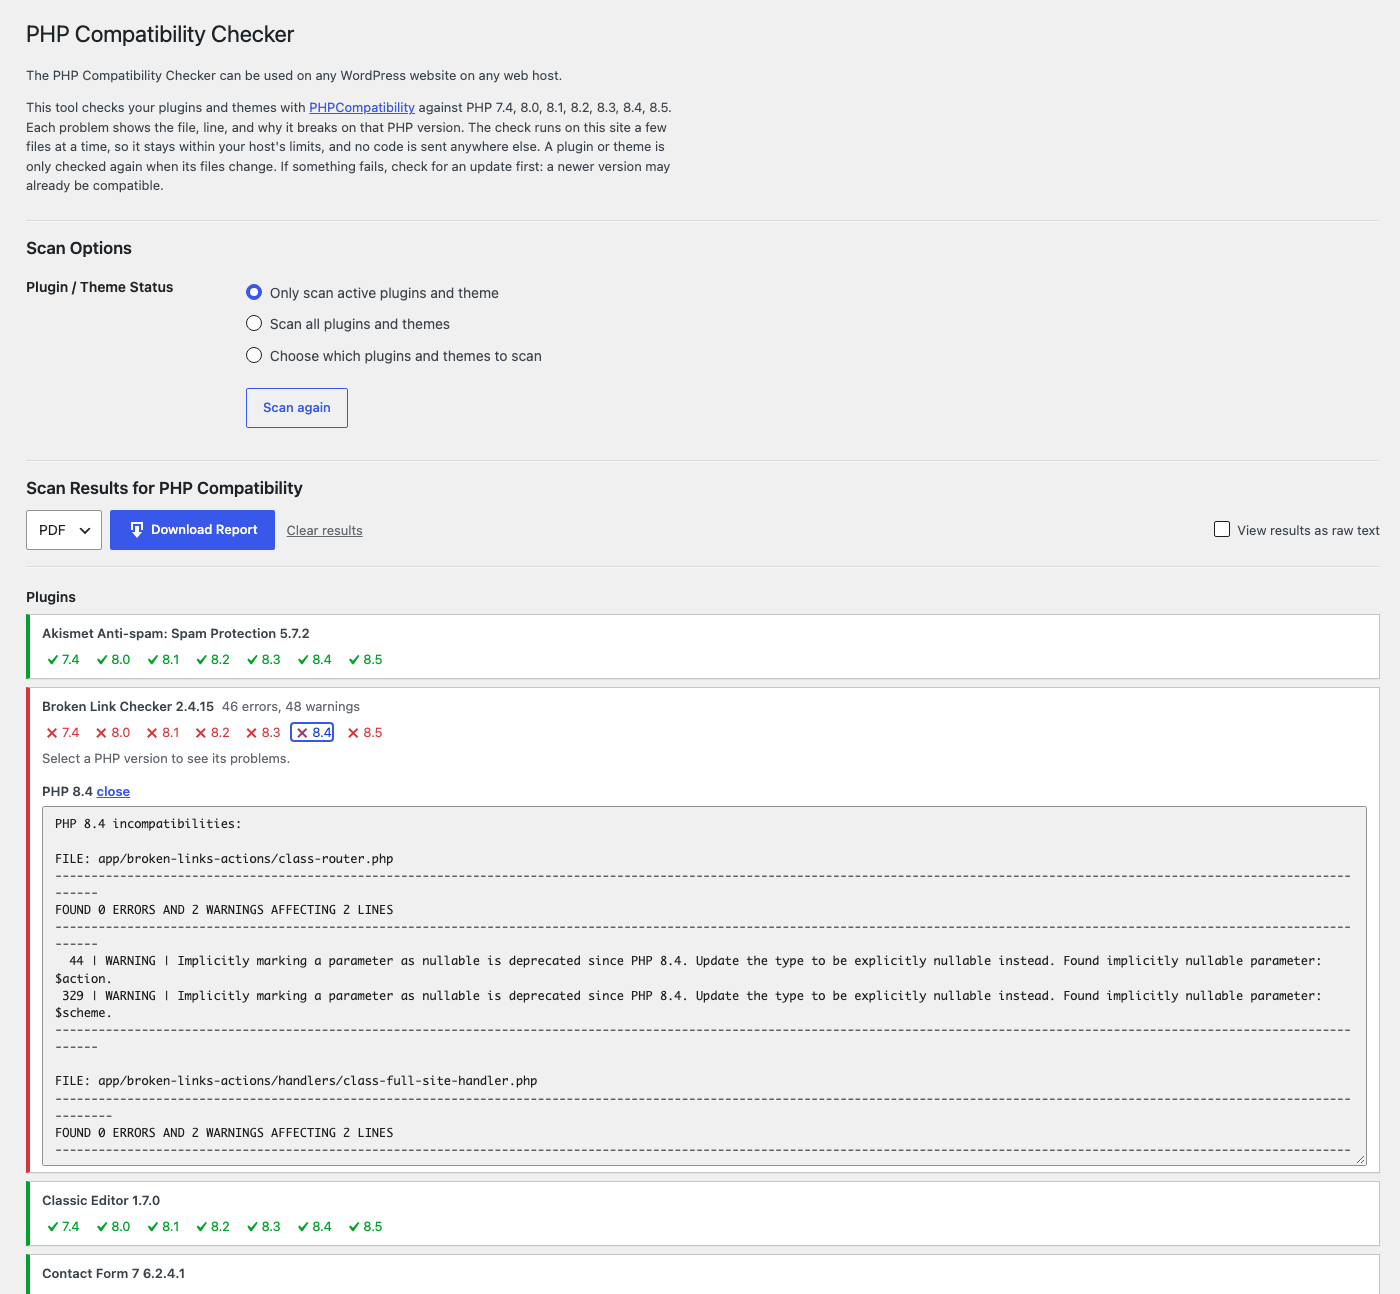
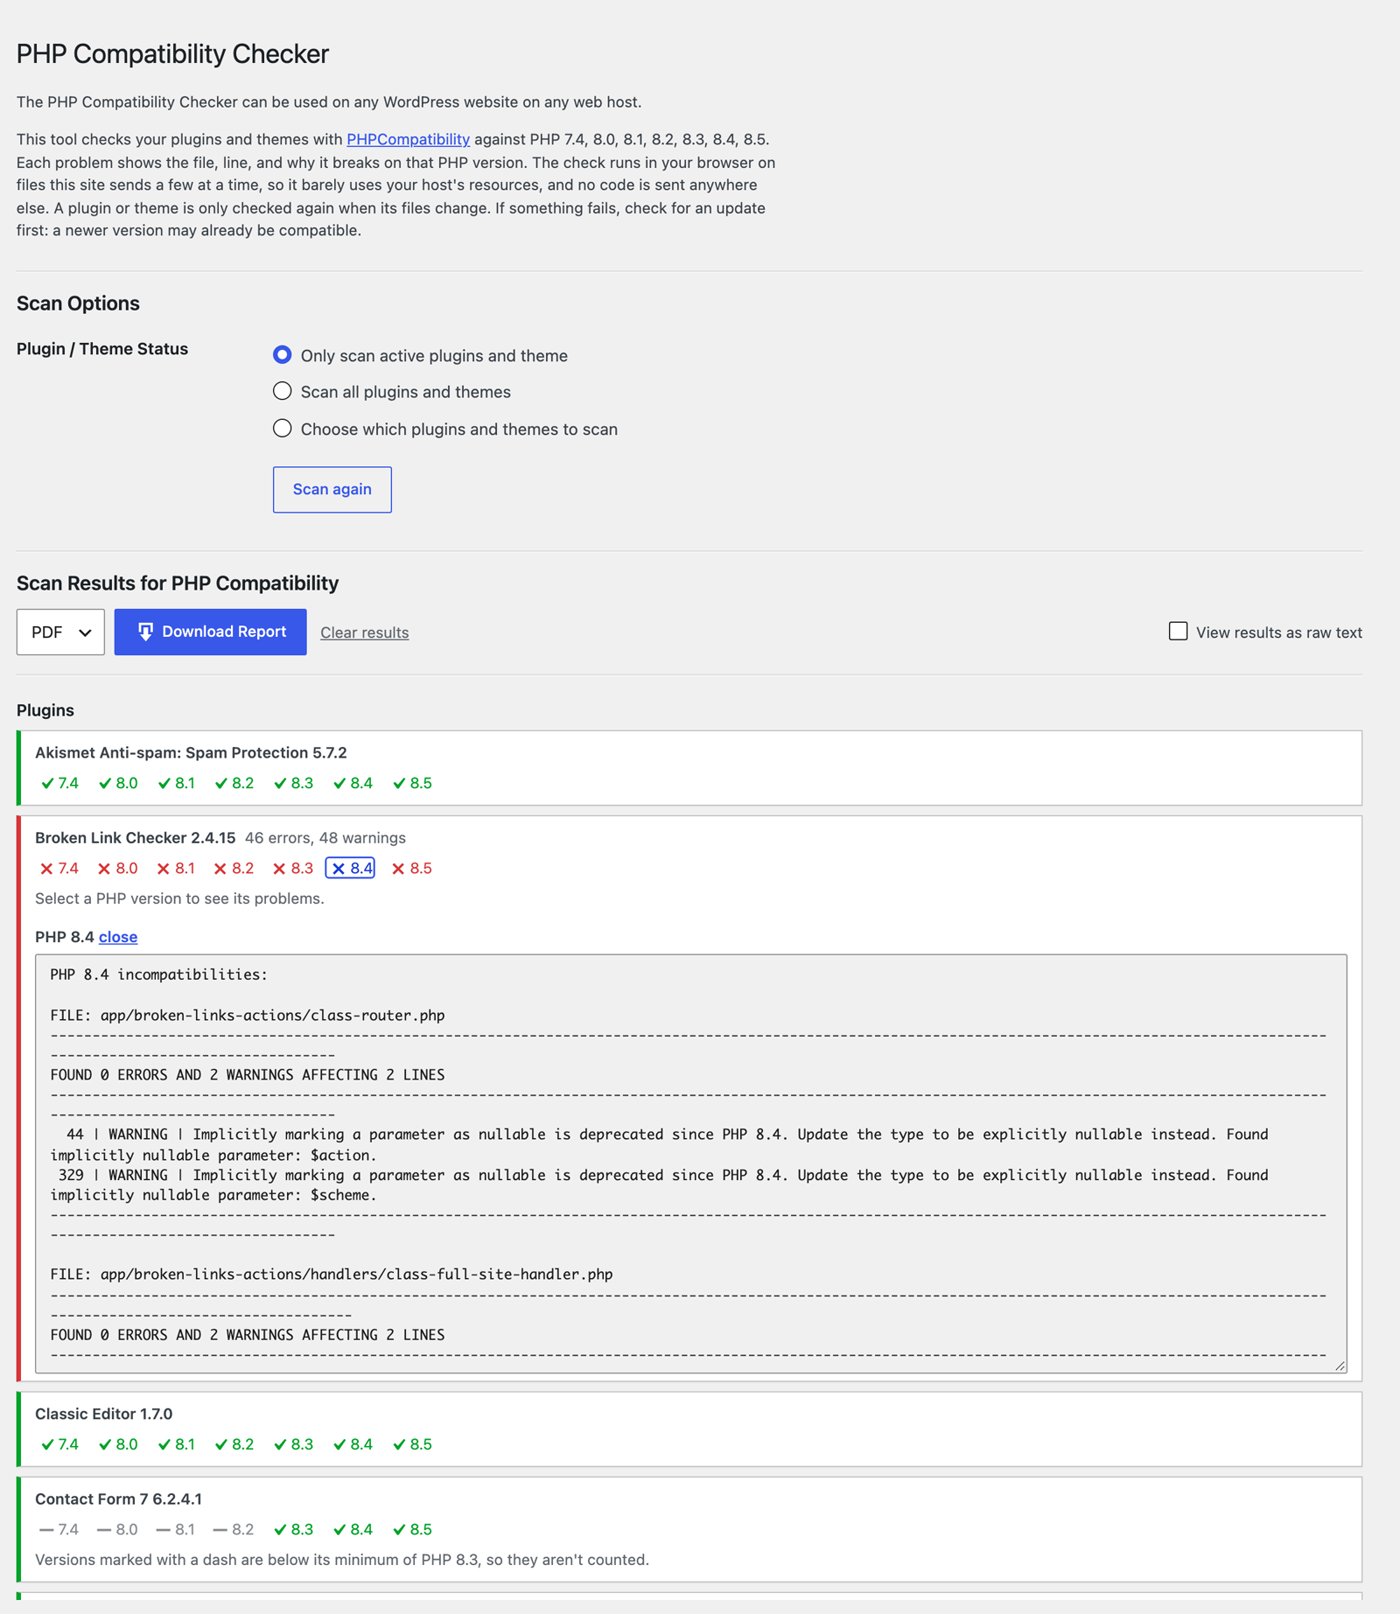
README: explain browser scanning with screenshots and diagrams
Rewrite How it works and Built for shared hosting for scanning in the
browser with PHP in WebAssembly. Add screenshots of a scan in progress
and of results, three Mermaid diagrams (where the work happens, one scan
step by step, and 1.5 vs 1.6 vs 2.0), and update the limitations, code
map, and filters. Refresh the WordPress.org scan page screenshot, whose
intro text still said the check runs on the site.

diff --git a/README.md b/README.md
@@ -4,48 +4,134 @@
 
 A WordPress plugin that checks whether the plugins and themes on a site work with newer versions of PHP. It's on WordPress.org as [PHP Compatibility Checker](https://wordpress.org/plugins/php-compatibility-checker/) and has around 200,000 active installs.
 
-It runs the PHP community's standard compatibility checker, [PHPCompatibility](https://github.com/PHPCompatibility/PHPCompatibility) on [PHP_CodeSniffer](https://github.com/PHPCSStandards/PHP_CodeSniffer), with the WordPress ruleset [PHPCompatibilityWP](https://github.com/PHPCompatibility/PHPCompatibilityWP), against PHP 7.4 through 8.5. It checks every plugin and theme: WordPress.org, premium, and custom.
+It runs the PHP community's standard compatibility checker, [PHPCompatibility](https://github.com/PHPCompatibility/PHPCompatibility) on [PHP_CodeSniffer](https://github.com/PHPCSStandards/PHP_CodeSniffer), with the WordPress ruleset [PHPCompatibilityWP](https://github.com/PHPCompatibility/PHPCompatibilityWP), against PHP 7.4 through 8.5. It checks every plugin and theme: WordPress.org, premium, and custom. The check runs in the admin's browser, in PHP compiled to WebAssembly, so it barely uses the host's resources and needs no outside service.
 
 This fork is actively maintained. It's where fixes are developed before being proposed upstream to [wpengine/phpcompat](https://github.com/wpengine/phpcompat).
 
 ## How it works
 
-The plugin adds **Tools → PHP Compatibility** to wp-admin. Choose **Only scan active plugins and theme**, **Scan all plugins and themes**, or **Choose which plugins and themes to scan**, then click **Scan site**:
+The plugin adds **Tools → PHP Compatibility** to wp-admin. Choose **Only scan active plugins and theme**, **Scan all plugins and themes**, or **Choose which plugins and themes to scan**, then click **Scan site**.
 
-1. The scan page sends one small request at a time to the plugin's REST API (`POST /wp-json/php-compat/v1/scan-batch`). The first request for each item only plans: it returns the stored result if the item's files haven't changed, otherwise the number of PHP files.
-2. Each following request scans the next batch of files on the site, in-process (no `exec()`), with the scanner that ships in the plugin (`build/scanner/`, plain PHP files). The browser sizes batches to take about 3 seconds, so no request comes near a host's time or memory limit.
-3. `runner.php` runs PHPCompatibilityWP once per PHP version (`testVersion` 7.4, 8.0, … 8.5), so each result means "this code breaks on PHP 8.x". To keep that fast, a first pass checks every file against the whole range and only the files it flags get the per-version passes.
-4. The browser merges the batches. Each item gets a status (Passes, Problems found, Not checked) and a chip per PHP version. Versions below the item's own "Requires PHP" are shown as not counted. Errors fail a version; warnings (deprecations) are listed but still run. Selecting a failing version shows the file, line, and message for each problem.
-5. The result is stored on the site with the item's version, the scanner's rule set, and a fingerprint of its PHP files (paths, sizes, modification times). Later scans reuse it until any of those change. WP-CLI and the Abilities API read the same results.
+<p align="center">
+  <img src=".github/images/scan-in-progress.png" alt="A scan in progress: finished plugins show a pass or fail chip for each PHP version, the current one shows files checked and a progress bar, and the rest are waiting." width="800">
+</p>
 
-Nothing is sent to another service: the code never leaves the site.
+The scan runs in the admin's browser. The plugin ships PHP 8.3 compiled to WebAssembly ([`@php-wasm/web-8-3`](https://www.npmjs.com/package/@php-wasm/web-8-3), from WordPress Playground) and runs its own copy of PHP_CodeSniffer and PHPCompatibilityWP inside a Web Worker. The site only lists and reads files. The CPU work of checking them happens on the admin's computer, and the code never leaves the site and that browser.
+
+```mermaid
+flowchart LR
+    files[("Plugin and<br/>theme files")]
+    rest["REST API<br/>reads the next few files"]
+    worker["PHP 8.3 in WebAssembly<br/>phpcs + PHPCompatibilityWP<br/>(Web Worker)"]
+    results[("Stored results")]
+    uses["Site Health,<br/>WP-CLI, Abilities"]
+    files --> rest
+    rest -- "POST /scan-batch" --> worker
+    worker -- "POST /results" --> results
+    results --> uses
+    classDef site fill:#e7f0fa,stroke:#2271b1,color:#1d2327
+    classDef browser fill:#fcf0e3,stroke:#b26200,color:#1d2327
+    class files,rest,results,uses site
+    class worker browser
+```
+
+<sub>Blue runs on the WordPress site. Orange runs in the admin's browser.</sub>
+
+Step by step:
+
+1. **Start PHP.** On the first scan the page downloads the scanner's files (`GET /scanner-bundle`), checks them against the SHA-256 in the plugin's build manifest, and keeps them in the browser's Cache Storage. The PHP runtime (`build/php-wasm/`, about 18 MB) loads from the plugin's own folder and the browser caches it. Both download again only when the plugin is updated. Browsers with JSPI (Chrome, Edge) use that build; Firefox and Safari use the Asyncify build.
+2. **Plan.** The first request for each item (`POST /scan-batch`) returns the stored result if the item's files haven't changed, otherwise how many PHP files it has.
+3. **Batches.** Each following request returns the next few PHP files. The worker writes them into PHP's in-memory file system and runs `runner.php`, the same file WP-CLI runs on the server. PHP inside the worker has no network access and no WordPress; it reads those files and prints JSON.
+4. **Per-version results.** `runner.php` runs PHPCompatibilityWP once per PHP version (`testVersion` 7.4, 8.0, … 8.5), so each result means "this code breaks on PHP 8.x". To keep that fast, a first pass checks every file against the whole range and only the files it flags get the per-version passes.
+5. **Merge and store.** The browser merges the batches. Each item gets a status (Passes, Problems found, Not checked) and a chip per PHP version. Versions below the item's own "Requires PHP" are shown as not counted. Errors fail a version; warnings (deprecations) are listed but still pass. Selecting a failing version shows the file, line, and message for each problem. The result is saved (`POST /results`) with the item's version, the scanner's rule set, and a fingerprint of its PHP files (paths, sizes, modification times). Later scans reuse it until any of those change.
+
+```mermaid
+sequenceDiagram
+    autonumber
+    participant P as Scan page
+    participant W as Web Worker (PHP in WebAssembly)
+    participant S as WordPress site
+    P->>S: GET /scanner-bundle (first scan only, then cached)
+    P->>W: start PHP, load scanner
+    W->>W: check scanner against build SHA-256
+    loop each plugin or theme
+        P->>S: POST /scan-batch (plan)
+        alt files unchanged
+            S-->>P: stored result
+        else changed or never scanned
+            loop until every file is checked
+                P->>S: POST /scan-batch (cursor)
+                S-->>P: next few files
+                P->>W: scan these files
+                W-->>P: problems per PHP version
+            end
+            P->>S: POST /results
+        end
+    end
+    P->>S: DELETE /scan-lock
+```
+
+<p align="center">
+  <img src=".github/images/scan-results.png" alt="Scan results: Broken Link Checker fails every PHP version and its PHP 8.4 problems are open, listing file, line and message; other plugins pass, and Contact Form 7 shows dashes for versions below its minimum." width="800">
+</p>
 
 The results also feed:
 
 - **Site Health** (Tools → Site Health): a test for the active plugins and theme, and a PHP Compatibility section on the Info tab. It reads stored results and never scans.
 - **"Requires PHP" checks**: an item whose code only passes from a newer PHP than its header says, or whose `vendor/composer/platform_check.php` requires one, gets a note. Both sources keep themselves current.
+- **WP-CLI and the Abilities API**, which read the same stored results.
+
+| PDF report | Site Health |
+| --- | --- |
+| ![The PDF report: a summary with next steps, then every plugin and theme at a glance.](.wordpress-org/screenshot-2.png) | ![Site Health: active plugins and themes with problems on newer PHP.](.wordpress-org/screenshot-3.png) |
 
 ### Built for shared hosting
 
+The plugin moved to an outside service (WP Engine's Tide, now retired) because 1.5 scanned on the site from WP-Cron with no time limit, which caused noisy-neighbor problems. 2.0 doesn't need a service: the expensive part runs in the browser, and what's left on the site is reading files.
+
+```mermaid
+flowchart TB
+    subgraph v15["1.5: on the site"]
+        a1["WP-Cron"] --> a2["phpcs on the server<br/>no time limit"]
+    end
+    subgraph v16["1.6: outside service"]
+        b1["Site"] --> b2["Tide API<br/>WordPress.org code only,<br/>stopped at PHP 8.0"]
+    end
+    subgraph v20["2.0: in the browser"]
+        c1["Site reads files"] --> c2["Admin's browser runs phpcs<br/>in WebAssembly"]
+    end
+    v15 ~~~ v16 ~~~ v20
+    classDef site fill:#e7f0fa,stroke:#2271b1,color:#1d2327
+    classDef browser fill:#fcf0e3,stroke:#b26200,color:#1d2327
+    classDef outside fill:#f0f0f1,stroke:#8c8f94,color:#1d2327
+    class a1,a2,b1,c1 site
+    class b2 outside
+    class c2 browser
+```
+
+Locally, Broken Link Checker (569 PHP files) takes about 22 seconds. The site spends 2.2 seconds of that reading files, over 16 requests, the longest 0.17 seconds. Scanning the same plugin on the server took about 10 seconds with requests up to 3.7 seconds, so a scan takes longer but the site does a fraction of the work. Results are identical to a server-side scan in Chromium, Firefox, and WebKit.
+
 Scanning is a resumable batch job, using the usual patterns for that:
 
+- **Only while the page is open.** No cron and no background jobs.
 - **One scan per site, one request in flight.** A short lock (renewed by each request, gone two minutes after the last) keeps a second admin or tab from starting another scan, and each scan sends one request at a time, so it holds at most one PHP worker.
-- **A time budget on the server**: each request checks files one by one and stops after about 3 seconds, whatever the browser asked for, then returns the rest for the next request.
-- **The ruleset is loaded once per PHP process** and reused for every file and PHP version, instead of once per phpcs run (about a quarter of a second each).
-- **Adaptive batch size**: aims for about 2 seconds per request, grows (at most 1.5×) while requests are fast, halves after a slow or failed one. The server also caps every batch (100 files, 1 MB). Request time includes waiting on disk, so hosts with limited I/O get smaller batches.
+- **Server-side caps**: every batch is limited to 100 files and 1 MB, whatever the browser asks for.
+- **Adaptive batch size**: each batch (request plus checking) aims for about 2 seconds, grows (at most 1.5×) while batches are fast, and halves after a slow or failed one.
 - **Pacing**: after a slow request, it waits a quarter of that time (at most 3 seconds) before the next, so a busy host has room for visitors.
-- **Progress you can see**: each item shows files checked, a progress bar, an estimate of the time left, and "still working…" if one request takes longer than 10 seconds.
+- **Progress you can see**: each item shows files checked, a progress bar, an estimate of the time left, and "still working…" if a batch takes longer than 10 seconds.
 - **Retries with exponential backoff and jitter** on 429, 503, timeouts, and dropped connections, honoring `Retry-After`.
-- **Poison-file isolation**: a batch that crashes PHP (memory, time) is split until the file causing it is found; that file is skipped and listed. If more than a few files crash, the item fails instead of passing.
+- **Poison-file isolation**: a batch that crashes PHP in the worker is split until the file causing it is found; that file is skipped and listed, and the worker restarts PHP. If more than a few files crash, the item fails instead of passing.
 - **Optimistic concurrency**: if an item's files change mid-scan, the server answers 409 and the item starts again.
-- **Integrity check**: the bundled scanner is checked against its build's SHA-256 (once a day per build); a missing or incomplete copy says to reinstall instead of failing on every file.
-- **Clean JSON**: messages are collected without phpcs's JSON report, so files that aren't UTF-8 can't break a response, and stray PHP notices before the JSON are skipped.
+- **Integrity check**: the worker refuses scanner files that don't match the build's SHA-256, and the site checks its own copy once a day per build, so a missing or incomplete install says to reinstall instead of failing on every file.
+- **An off switch**: `define( 'WPEPHPCOMPAT_DISABLE_SCANNING', true );` in `wp-config.php`, or the `wpephpcompat_scanning_enabled` filter, turns scanning off. Stored results, Site Health, and WP-CLI keep working.
 
 ### Limitations
 
 - **Static analysis.** Code isn't executed. Code paths that exist for backwards compatibility can show up as failures, and runtime problems won't show up at all.
 - **PHPCompatibility 10 is in alpha.** It's the release line with PHP 8.1–8.5 checks; coverage of some PHP 8.3–8.5 changes is still being added upstream. The exact versions are in every report and in `build/scanner.json`.
-- **The site does the work.** A first scan of a large site takes a few minutes of one PHP worker; later scans only check what changed. WP-CLI (`wp php-compat scan`) runs the same scanner without request limits.
+- **The browser does the work.** WebAssembly PHP is about 3–4× slower per file than native PHP, so a first scan of a large site takes a few minutes and the tab has to stay open. Later scans only check what changed. WP-CLI (`wp php-compat scan`) runs the same scanner natively on the server.
+- **A bigger plugin.** The bundled PHP runtime makes the zip about 15 MB.
+- **Multisite.** Only super admins can scan from the page, because scanning reads plugin code.
 
 ## WP-CLI
 
@@ -58,7 +144,7 @@ wp php-compat report wp-optimize --php=8.4
 wp php-compat php-status
 ```
 
-WP-CLI has no browser and no time limit, so `scan` runs the same `runner.php` in-process on the installed files (no `exec()` needed) and stores the results. `scan` exits with status 1 when any item has problems, so it can gate deploys or run across many sites.
+WP-CLI has no browser and no time limit, so `scan` runs the same `runner.php` natively and in-process on the installed files (no `exec()` needed) and stores the results. `scan` exits with status 1 when any item has problems, so it can gate deploys or run across many sites.
 
 ## Abilities API (AI agents)
 
@@ -92,21 +178,22 @@ The scan page shows a notice for each of these. The same data is in `wp php-comp
 | `plugin/wpengine-phpcompat.php` | Bootstrap: constants, autoloader, activation, upgrade, and migration hooks |
 | `plugin/lib/class-php-compatibility-checker.php` | Admin page, script loading, and the list of plugins and themes to scan, with filters |
 | `plugin/lib/class-scanner.php` | Server-side scanner: turns reports into statuses, scans installed files for WP-CLI (used by WP-CLI and abilities) |
-| `plugin/lib/class-scanner-bundle.php` | The bundled scanner: rule set, PHP versions, browser settings, and in-process runs for WP-CLI |
+| `plugin/lib/class-scanner-bundle.php` | The bundled scanner: rule set, PHP versions, the off switch, browser settings (worker and runtime URLs), the files for `GET /scanner-bundle`, and in-process runs for WP-CLI |
 | `plugin/lib/class-results.php` | Stored results, one non-autoloaded option per plugin or theme |
 | `plugin/lib/class-site-health.php` | Site Health test and Info section |
-| `plugin/lib/class-rest-controller.php` | `php-compat/v1` REST routes: local files in batches, and saving results |
+| `plugin/lib/class-rest-controller.php` | `php-compat/v1` REST routes: `/scan-batch` (files in batches), `/scanner-bundle`, `/results`, and `/scan-lock` |
 | `plugin/lib/class-cli-command.php` | `wp php-compat` commands |
 | `plugin/lib/class-abilities.php` | Abilities API registration |
 | `plugin/lib/class-php-releases.php` | Server PHP release status from php.net and critical advisories (latest patch release, branch end of life, PHP2Shell) |
 | `src/js/scan.js` | Page wiring: buttons and toggles |
 | `src/js/include/queue-manager.js` | Scan queue: one item at a time |
-| `src/js/include/scanner.js` | Batched scanning over REST: sizing, retries, skipping, merging |
+| `src/js/include/scanner.js` | Batched scanning: requests, sizing, retries, skipping, merging |
+| `src/js/include/wasm-engine.js` | Starts the worker, caches the scanner's files in Cache Storage, and passes batches to it with timeouts |
+| `src/js/wasm-worker.js` | Web Worker: loads PHP in WebAssembly, checks the scanner against its SHA-256, runs `runner.php` on each batch, and restarts PHP after a crash |
 | `src/js/include/report-model.js` | What goes in a report (labels, grouping, wording), shared by the PDF and the printable page |
-| `plugin/lib/class-rest-controller.php` | `POST /scan-batch` and `POST /results` |
 | `tools/phpcs-bundle/` | Pinned phpcs + PHPCompatibilityWP (`composer.lock`), `runner.php`, `collect-report.php`, and `build.php`, which writes `plugin/build/scanner/` and `scanner.json` (plain files: WordPress.org doesn't accept archives in plugins) |
 | `src/js/include/render.js` | Results rendering (Mustache template in the PHP class) |
-| `plugin/build/` | Compiled assets (git-ignored; created by `npm run build`) |
+| `plugin/build/` | Compiled assets, the scanner, and the PHP WebAssembly runtime in `php-wasm/` (git-ignored; created by `npm run build`) |
 | `tests/*Test.php` | PHP unit tests (PHPUnit + Brain Monkey) |
 | `tests/e2e/` | Playwright end-to-end tests and the wp-env test fixture plugin |
 
@@ -116,6 +203,8 @@ The scan page shows a notice for each of these. The same data is in `wp php-comp
 - `phpcompat_plugins_to_scan` and `phpcompat_themes_to_scan`: the final lists sent to the browser.
 - `wpephpcompat_pre_scan_report`: supply a report for an item instead of scanning it (scan page and WP-CLI), e.g. results your host already has.
 - `wpephpcompat_php_advisories`: the critical PHP advisories checked against the server.
+- `wpephpcompat_scanning_enabled`: return `false` to turn off scanning from the page (same as `WPEPHPCOMPAT_DISABLE_SCANNING`).
+- `wpephpcompat_wasm_base_url`: where the browser loads the PHP WebAssembly runtime from (defaults to the plugin's `build/php-wasm/`).
 
 ## Local development
 
